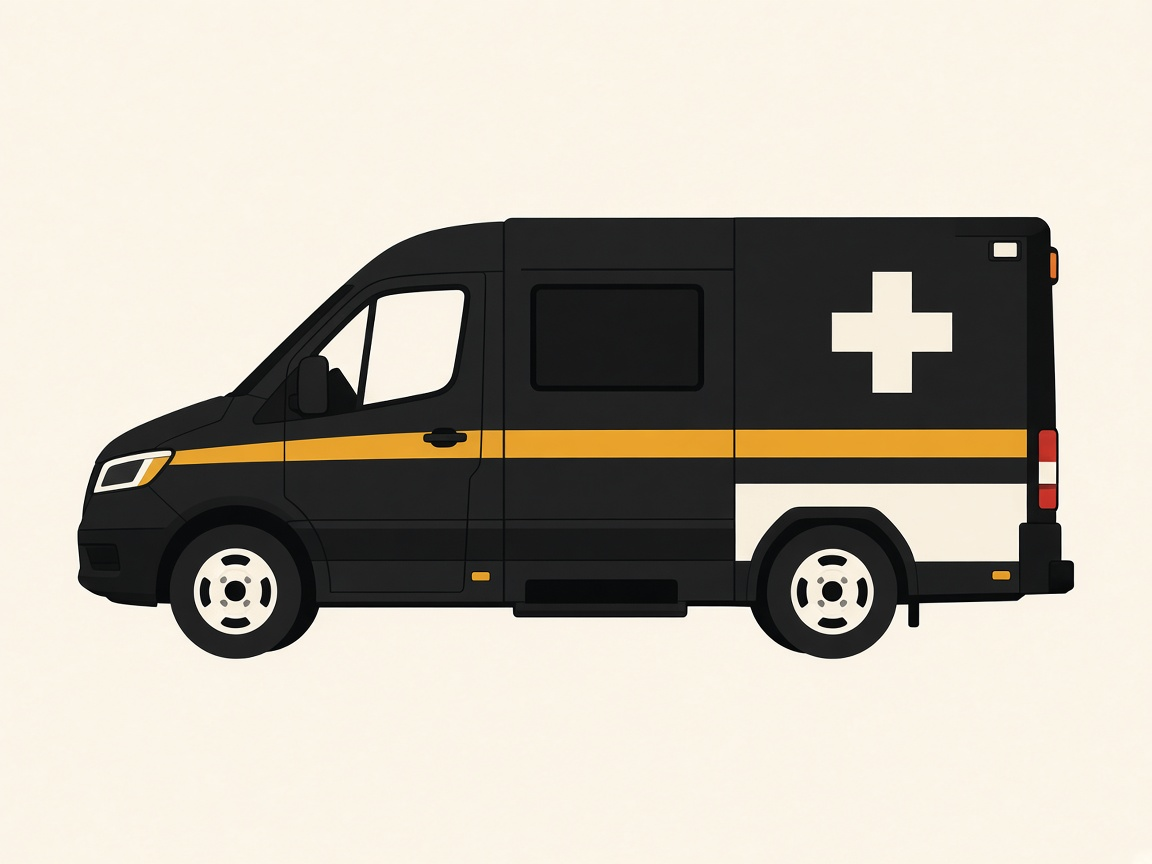
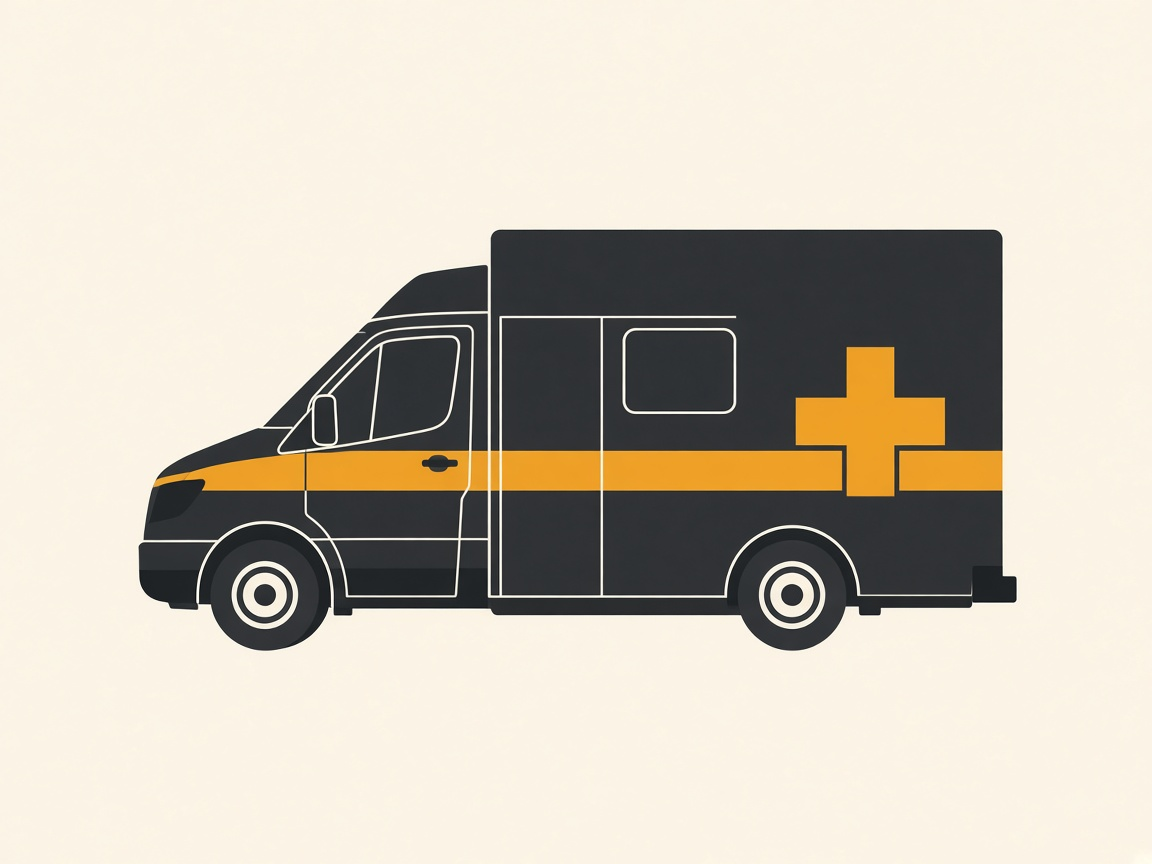
fix: draw ambulances as vehicles and restore the front-page grid
The map markers sat in boxes, the field-unit picture had a blank panel, and the front page had lost its grid. Ambulances are now a transparent top-down vehicle that turns with the road, patients are circles, and the control room and guided demo can return home.

Changed region(s): [[0.0625, 0.25, 0.9375, 0.7812]]

diff --git a/frontend/src/components/MapOverlay.jsx b/frontend/src/components/MapOverlay.jsx
@@ -90,8 +90,8 @@ function legendControl() {
     row('width:10px;height:10px;border-radius:2px;background:#9a97a0', 'Hospital on divert');
     row('width:9px;height:9px;transform:rotate(45deg);background:#2e2c32', 'Station');
     Object.values(UNIT_STATE).forEach(({ color, label }) => row(`width:10px;height:10px;border-radius:50%;background:${color}`, `Vehicle: ${label.toLowerCase()}`));
-    row('width:14px;height:14px;border-radius:3px;background:#e8a020;color:#1c1c1e;font:700 10px/14px system-ui;text-align:center', 'P patient');
-    row('width:14px;height:14px;border-radius:2px;background:#2e2c32;color:#fff;font:700 10px/14px system-ui;text-align:center', 'D dispatch');
+    row('width:14px;height:14px;border-radius:50%;background:#e8a020;color:#1c1c1e;font:700 10px/14px system-ui;text-align:center', 'P patient');
+    row('width:14px;height:14px;border-radius:50%;background:#2e2c32;color:#fff;font:700 10px/14px system-ui;text-align:center', 'D dispatch');
     row('width:10px;height:10px;border-radius:50%;border:2px solid #1d5fd1', 'Live GPS');
     L.DomEvent.disableClickPropagation(box);
     return box;
@@ -100,21 +100,36 @@ function legendControl() {
 }
 
 function marker(kind, label) {
+  const inkOnAmber = kind === 'patient';
   return L.divIcon({
-    className: '',
-    html: `<div class="rg-marker" style="width:28px;height:28px;background:${COLOR[kind]};font-size:14px">${label}</div>`,
+    className: 'rg-pin',
+    html: `<div class="rg-marker rg-dot" style="width:28px;height:28px;background:${COLOR[kind]};color:${inkOnAmber ? '#1c1c1e' : '#fff'};font-size:${label.length > 1 ? 11 : 14}px">${label}</div>`,
     iconSize: [28, 28],
     iconAnchor: [14, 14],
   });
 }
 
-function ambulanceIcon(heading) {
+// Top-down van, nose toward the top of the icon. Heading is a compass
+// bearing (0 north, clockwise), which is the same direction CSS rotate uses.
+function ambulanceSvg(px, heading) {
   const turn = Number.isFinite(heading) ? heading : 0;
+  return `<svg class="rg-ambulance-body" viewBox="0 0 64 64" width="${px}" height="${px}" aria-hidden="true" style="display:block;overflow:visible;transform:rotate(${turn}deg);transform-origin:50% 50%">
+    <path d="M23 18c0-6 3.6-10 9-10s9 4 9 10v24.5c0 3.2-2.4 5.5-5.4 5.5h-7.2c-3 0-5.4-2.3-5.4-5.5V18z" fill="#1c1c1e"/>
+    <path d="M26.2 18.4c.7-3.4 2.8-5.6 5.8-5.6s5.1 2.2 5.8 5.6V24H26.2v-5.6z" fill="#f4f1ea"/>
+    <rect x="22.2" y="28.2" width="19.6" height="3.1" fill="#e8a020"/>
+    <rect x="27.2" y="24.2" width="9.6" height="2.1" rx="0.4" fill="#c23a2b"/>
+    <path d="M32 34.2v8.2M28.1 38.3h7.8" stroke="#f4f1ea" stroke-width="2.4"/>
+    <rect x="19.4" y="22.4" width="2.4" height="5.2" rx="0.7" fill="#2a282e"/>
+    <rect x="42.2" y="22.4" width="2.4" height="5.2" rx="0.7" fill="#2a282e"/>
+  </svg>`;
+}
+
+function ambulanceIcon(heading) {
   return L.divIcon({
-    className: '',
-    html: `<div class="rg-marker" title="Ambulance" style="width:40px;height:40px;padding:0;overflow:hidden;border:2px solid #1c1c1e;border-radius:6px;background:#f3efe6;transform:rotate(${turn}deg);transform-origin:50% 50%"><span style="position:absolute;width:1px;height:1px;overflow:hidden">U</span><img src="/art/ambulance-top.jpg" alt="" width="40" height="40" style="display:block;width:40px;height:40px;object-fit:cover"></div>`,
-    iconSize: [40, 40],
-    iconAnchor: [20, 20],
+    className: 'rg-pin',
+    html: `<div class="rg-marker rg-ambulance" title="Ambulance" style="width:44px;height:44px"><span style="position:absolute;width:1px;height:1px;overflow:hidden">U</span><span class="rg-ambulance-shadow"></span>${ambulanceSvg(44, heading)}</div>`,
+    iconSize: [44, 44],
+    iconAnchor: [22, 22],
   });
 }
 
@@ -148,6 +163,36 @@ function toLatLngs(coords) {
 // One shared empty list for omitted props: a fresh [] on every render would
 // look like new data and redraw (and close popups on) the route layers.
 const NONE = Object.freeze([]);
+
+function stopGlide(glides, key) {
+  const frame = glides.get(key);
+  if (frame) cancelAnimationFrame(frame);
+  glides.delete(key);
+}
+
+// Move a marker along the street between polls, the way a ride-hail car
+// glides instead of jumping. A hop across the city (a new call, a reset)
+// still jumps: crawling that far would look like the wrong road.
+function glideMarker(glides, key, marker, lat, lng, ms) {
+  stopGlide(glides, key);
+  const from = marker.getLatLng();
+  const dLat = lat - from.lat;
+  const dLng = lng - from.lng;
+  if (Math.abs(dLat) < 1e-7 && Math.abs(dLng) < 1e-7) return;
+  if (Math.hypot(dLat, dLng) > 0.02) {
+    marker.setLatLng([lat, lng]);
+    return;
+  }
+  const start = performance.now();
+  const tick = (now) => {
+    const t = Math.min(1, (now - start) / ms);
+    const eased = t < 0.5 ? 2 * t * t : 1 - ((-2 * t + 2) ** 2) / 2;
+    marker.setLatLng([from.lat + dLat * eased, from.lng + dLng * eased]);
+    if (t < 1) glides.set(key, requestAnimationFrame(tick));
+    else glides.delete(key);
+  };
+  glides.set(key, requestAnimationFrame(tick));
+}
 
 // A GPS place counts as live only while its fix is recent (the backend stops
 // trusting a fix after 15 s). Older places are labelled as such, never "live".
@@ -435,10 +480,16 @@ export default function MapOverlay({
   // The rest of the fleet: small markers on their own layer, redrawn on each
   // fleet poll (not part of the fit, so they never re-zoom the map).
   const fleetLayer = useRef(null);
+  const fleetMarkers = useRef(new Map());
+  const glides = useRef(new Map());
+  useEffect(() => () => {
+    for (const frame of glides.current.values()) cancelAnimationFrame(frame);
+    glides.current.clear();
+  }, []);
   useEffect(() => {
     if (!map.current) return;
     if (!fleetLayer.current) fleetLayer.current = L.layerGroup().addTo(map.current);
-    fleetLayer.current.clearLayers();
+    const seen = new Set();
     // Units parked at the same station would sit on one point: fan them out
     // a little around it so each one can be seen and clicked.
     const parked = {};
@@ -456,33 +507,49 @@ export default function MapOverlay({
         at = [pos.lat + 0.0014 * Math.cos(angle), pos.lng + 0.0014 * Math.sin(angle)];
       }
       const ambulance = u.type === 'Ambulance';
-      const size = ambulance ? 28 : (proposed ? 20 : 16);
+      const size = ambulance ? 36 : (proposed ? 20 : 16);
       const fill = UNIT_STATE[state].color;
       const fresh = gpsFresh(pos);
-      const ring = proposed ? `3px solid ${COLOR.proposal}`
-        : fresh ? '2.5px solid #1d5fd1' : '1.5px solid #ffffff';
+      const ring = proposed ? `0 0 0 3px ${COLOR.proposal}`
+        : fresh ? '0 0 0 2.5px #1d5fd1' : 'none';
       const where = pos.source === 'gps'
         ? (fresh ? 'live GPS' : 'GPS, no recent fix')
         : pos.source === 'simulated' ? 'simulated' : 'at station';
       const face = ambulance
-        ? `<img src="/art/ambulance-top.jpg" alt="" width="${size}" height="${size}" style="display:block;width:${size}px;height:${size}px;object-fit:cover;border-radius:5px;transform:rotate(${Number.isFinite(pos.heading) ? pos.heading : 0}deg)"><span style="position:absolute;right:-3px;bottom:-3px;width:9px;height:9px;border-radius:50%;background:${fill};border:1.5px solid #fff"></span>`
+        ? `<span class="rg-ambulance-shadow"></span>${ambulanceSvg(size, pos.heading)}<span style="position:absolute;right:0;bottom:0;width:9px;height:9px;border-radius:50%;background:${fill};border:1.5px solid #fff"></span>`
         : (TYPE_LETTER[u.type] ?? '');
-      L.marker(at, {
-        icon: L.divIcon({
-          className: '',
-          html: `<div class="rg-fleet rg-fleet-${state}${proposed ? ' rg-fleet-backup' : ''}" style="position:relative;width:${size}px;height:${size}px;border-radius:${ambulance ? 5 : 50}%;background:${ambulance ? '#f3efe6' : fill};border:${ring};box-shadow:0 0 0 1px rgba(0,0,0,.35);color:#fff;font:700 9px/${size - 3}px system-ui;text-align:center;overflow:${ambulance ? 'visible' : 'hidden'};opacity:${state === 'off' ? 0.7 : 1}">${face}</div>`,
-          iconSize: [size, size],
-          iconAnchor: [size / 2, size / 2],
-        }),
-        keyboard: false,
-        title: `${u.unit_id}, ${UNIT_STATE[state].label.toLowerCase()}`,
-        zIndexOffset: state === 'busy' ? 500 : 0,
-      })
-        .bindPopup(popup([u.unit_id, 'b'], [`${u.type} · ${UNIT_STATE[state].label.toLowerCase()}`],
-          [`${u.station ?? ''}`, 'i'], [`Position: ${where}`],
-          ...(u.out_of_area ? [['Outside the service area', 'b']] : []),
-          ...(proposed ? [['Proposed backup', 'b']] : [])))
-        .addTo(fleetLayer.current);
+      const icon = L.divIcon({
+        className: 'rg-pin',
+        html: `<div class="rg-fleet rg-fleet-${state}${proposed ? ' rg-fleet-backup' : ''}${ambulance ? ' rg-ambulance' : ''}" style="position:relative;width:${size}px;height:${size}px;border-radius:${ambulance ? 0 : '50%'};background:${ambulance ? 'transparent' : fill};box-shadow:${ambulance ? ring : `0 0 0 1px rgba(0,0,0,.35), ${ring}`};color:#fff;font:700 9px/${size - 3}px system-ui;text-align:center;overflow:visible;opacity:${state === 'off' ? 0.55 : 1}">${face}</div>`,
+        iconSize: [size, size],
+        iconAnchor: [size / 2, size / 2],
+      });
+      const content = popup([u.unit_id, 'b'], [`${u.type} · ${UNIT_STATE[state].label.toLowerCase()}`],
+        [`${u.station ?? ''}`, 'i'], [`Position: ${where}`],
+        ...(u.out_of_area ? [['Outside the service area', 'b']] : []),
+        ...(proposed ? [['Proposed backup', 'b']] : []));
+      const existing = fleetMarkers.current.get(u.unit_id);
+      if (existing) {
+        existing.setIcon(icon);
+        existing.setPopupContent(content);
+        existing.setZIndexOffset(state === 'busy' ? 500 : 0);
+        glideMarker(glides.current, u.unit_id, existing, at[0], at[1], 4200);
+      } else {
+        const created = L.marker(at, {
+          icon,
+          keyboard: false,
+          title: `${u.unit_id}, ${UNIT_STATE[state].label.toLowerCase()}`,
+          zIndexOffset: state === 'busy' ? 500 : 0,
+        }).bindPopup(content).addTo(fleetLayer.current);
+        fleetMarkers.current.set(u.unit_id, created);
+      }
+      seen.add(u.unit_id);
+    }
+    for (const [id, existing] of fleetMarkers.current) {
+      if (seen.has(id)) continue;
+      stopGlide(glides.current, id);
+      fleetLayer.current.removeLayer(existing);
+      fleetMarkers.current.delete(id);
     }
   }, [fleet, highlightUnit]);
 
@@ -629,15 +696,16 @@ export default function MapOverlay({
         ? marker('unit', TYPE_LETTER[unit.type] ?? 'U')
         : ambulanceIcon(pos.heading);
       if (unitMarker.current) {
-        unitMarker.current.setLatLng([pos.lat, pos.lng]);
         unitMarker.current.setIcon(icon);
         unitMarker.current.setPopupContent(content);
+        glideMarker(glides.current, 'active-unit', unitMarker.current, pos.lat, pos.lng, 1700);
       } else {
         unitMarker.current = L.marker([pos.lat, pos.lng], { icon, zIndexOffset: 1000 })
           .bindPopup(content)
           .addTo(unitLayer.current);
       }
     } else if (unitMarker.current) {
+      stopGlide(glides.current, 'active-unit');
       unitLayer.current.removeLayer(unitMarker.current);
       unitMarker.current = null;
     }

diff --git a/frontend/src/views/LandingPage.jsx b/frontend/src/views/LandingPage.jsx
@@ -64,7 +64,7 @@ const PORTALS = [
 
 export default function LandingPage() {
   return (
-    <div className="min-h-screen bg-field text-text">
+    <div className="min-h-screen text-text">
       <header className="fixed inset-x-0 top-0 z-50 border-b border-rule-ink bg-ink">
         <div className="mx-auto flex h-14 max-w-6xl items-center justify-between gap-3 px-4 sm:h-16 sm:px-6">
           <Link to="/" className="flex min-w-0 items-center gap-3">
@@ -210,6 +210,28 @@ export default function LandingPage() {
           </div>
         </section>
 
+        <section className="border-y border-rule-ink bg-ink py-8 sm:py-10">
+          <div className="mx-auto flex max-w-6xl flex-col gap-4 px-4 sm:px-6">
+            <div className="flex flex-col gap-1 sm:flex-row sm:items-end sm:justify-between">
+              <div>
+                <div className="font-display text-[11px] font-bold uppercase tracking-[0.14em] text-signal">
+                  On the street
+                </div>
+                <h2 className="mt-1 font-display text-[clamp(24px,3.5vw,32px)] font-bold text-on-ink">
+                  The ambulance follows the road
+                </h2>
+              </div>
+              <p className="max-w-sm text-[13px] leading-relaxed text-on-ink-muted">
+                On the live map the vehicle is the marker. It glides along the planned streets and turns to face the road it is on.
+              </p>
+            </div>
+            <Frame
+              src="/art/street-move.jpg"
+              alt="A top-down city grid with an amber route and an ambulance on the street"
+            />
+          </div>
+        </section>
+
         <section className="border-y border-rule bg-paper py-8 sm:py-12">
           <div className="mx-auto flex max-w-6xl flex-col gap-6 px-4 sm:px-6">
             <div className="flex flex-col gap-2 sm:flex-row sm:items-end sm:justify-between">
@@ -299,6 +321,18 @@ export default function LandingPage() {
           <h2 className="mt-1 font-display text-[clamp(24px,3.5vw,32px)] font-bold">
             Built for high-stakes dispatch
           </h2>
+
+          <div className="mt-6 grid grid-cols-1 items-center gap-4 md:grid-cols-2">
+            <Frame
+              src="/art/agent-watch.jpg"
+              alt="A dispatch console with a map, an amber route, and a small ambulance"
+              ratio="aspect-[4/3]"
+            />
+            <p className="text-[15px] leading-relaxed text-text-muted sm:text-[16px]">
+              The console keeps the unit, the route, and the reason for a change on one desk.
+              What moves on the map is the same call the dispatcher just approved.
+            </p>
+          </div>
 
           <div className="mt-6 grid grid-cols-1 gap-4 md:grid-cols-2">
             {[

diff --git a/frontend/src/views/GuidedDemo.jsx b/frontend/src/views/GuidedDemo.jsx
@@ -10,6 +10,7 @@
  */
 
 import React, { useCallback, useEffect, useRef, useState } from 'react';
+import { Link } from 'react-router-dom';
 import { Button } from '../components/ui';
 
 const SCENE = { lat: 13.0358, lng: 77.597 }; // near Hebbal
@@ -452,6 +453,9 @@ export default function GuidedDemo() {
               </p>
             </div>
             <div className="flex flex-wrap justify-end gap-2">
+              <Link to="/" className="tap inline-flex items-center rounded-sm border border-rule px-3 py-2 text-[13px] font-semibold text-text">
+                Home
+              </Link>
               <Button variant="quiet" aria-pressed={projector} onClick={() => setProjector((v) => !v)}>
                 {projector ? 'Exit projector' : 'Projector'}
               </Button>
@@ -501,7 +505,7 @@ export default function GuidedDemo() {
             <div className="rounded-sm border border-rule bg-paper px-3 py-2">
               <div className="eyebrow">What is happening</div>
               <p role="status" aria-live="polite" className="mt-1 text-[14px] leading-relaxed">
-                {caption ?? 'This tour plays the official scenario: an ambulance is sent to a caller, a road on its way closes, and the monitoring agent works out what to do. Press "Next step" to begin; each step shows the screen where it happens.'}
+                {caption ?? 'This tour plays the official scenario: an ambulance is sent to a caller, a road on its way closes, and the monitoring agent works out what to do. Press "Next step" to begin; each step shows the screen where it happens. On the map the ambulance is the vehicle itself: it follows the planned streets and turns to face the road.'}
               </p>
               {lastDone && !busy && (
                 <p className="mt-1.5 text-[12.5px] leading-relaxed text-text-muted">{lastDone.what}</p>

diff --git a/frontend/src/views/ControlRoom.jsx b/frontend/src/views/ControlRoom.jsx
@@ -6,7 +6,8 @@
  */
 
 import React, { useEffect, useMemo, useState } from 'react';
-import { Activity, Building2, Siren, Truck } from 'lucide-react';
+import { Link } from 'react-router-dom';
+import { Activity, Building2, Home, Siren, Truck } from 'lucide-react';
 import MapOverlay from '../components/MapOverlay';
 import ControlRoomLog from '../components/ControlRoomLog';
 import { Panel, PanelHead, StatusTag } from '../components/ui';
@@ -152,6 +153,13 @@ export default function ControlRoom() {
           </p>
         </div>
         <div className="flex flex-wrap items-center gap-x-6 gap-y-2" data-testid="city-counts">
+          <Link
+            to="/"
+            className="inline-flex items-center gap-1.5 rounded-sm border border-signal bg-signal px-3 py-2 font-display text-[13px] font-bold text-ink"
+          >
+            <Home size={15} aria-hidden />
+            Home
+          </Link>
           <Count Icon={Siren} label="Live emergencies" value={active.length} />
           <Count Icon={Truck} label="Vehicles on calls" value={onCall} />
           <Count Icon={Truck} label="Free" value={free} />

diff --git a/frontend/src/index.css b/frontend/src/index.css
@@ -352,6 +352,11 @@
   color: var(--color-text-faint) !important;
 }
 
+.leaflet-marker-icon.rg-pin {
+  background: transparent;
+  border: none;
+}
+
 .rg-marker {
   display: grid;
   place-items: center;
@@ -362,6 +367,29 @@
   color: #fff;
   border: 2px solid #fff;
   box-shadow: none;
+}
+
+.rg-marker.rg-dot {
+  border-radius: 50%;
+  box-shadow: 0 1px 3px rgba(28, 28, 30, 0.35);
+}
+
+.rg-marker.rg-ambulance,
+.rg-fleet.rg-ambulance {
+  background: transparent;
+  border: none;
+  box-shadow: none;
+}
+
+.rg-ambulance-shadow {
+  position: absolute;
+  left: 18%;
+  right: 18%;
+  bottom: 1px;
+  height: 7px;
+  border-radius: 50%;
+  background: rgba(28, 28, 30, 0.28);
+  pointer-events: none;
 }
 
 @keyframes rg-ping {
